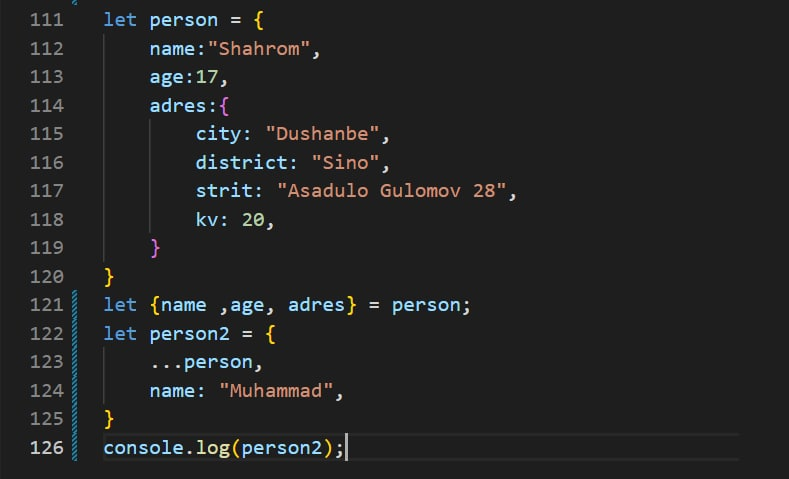
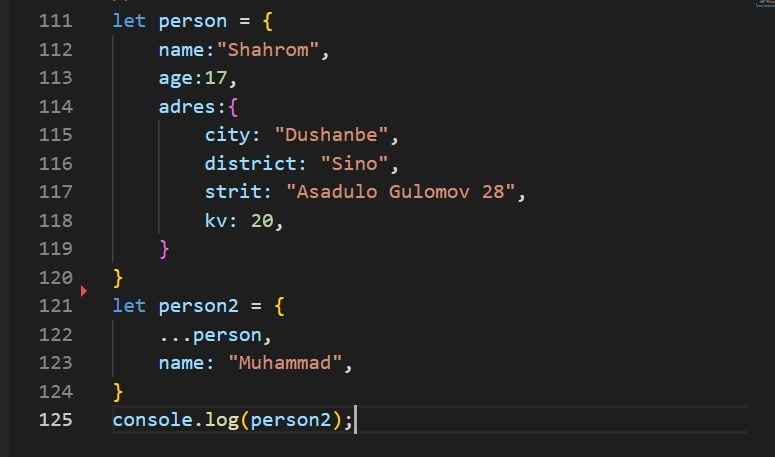
commit7

diff --git a/main.js b/main.js
@@ -107,20 +107,20 @@
 
 
 
-// #9
-let person = {
-    name:"Shahrom",
-    age:17,
-    adres:{
-        city: "Dushanbe",
-        district: "Sino",
-        strit: "Asadulo Gulomov 28",
-        kv: 20,
-    }
-}
-let {name ,age, adres} = person;
-let person2 = {
-    ...person,
-    name: "Muhammad",
-}
-console.log(person2);
+// // #9
+// let person = {
+//     name:"Shahrom",
+//     age:17,
+//     adres:{
+//         city: "Dushanbe",
+//         district: "Sino",
+//         strit: "Asadulo Gulomov 28",
+//         kv: 20,
+//     }
+// }
+// let person2 = {
+//     ...person,
+//     name: "Muhammad",
+// }
+// console.log(person2);
+
